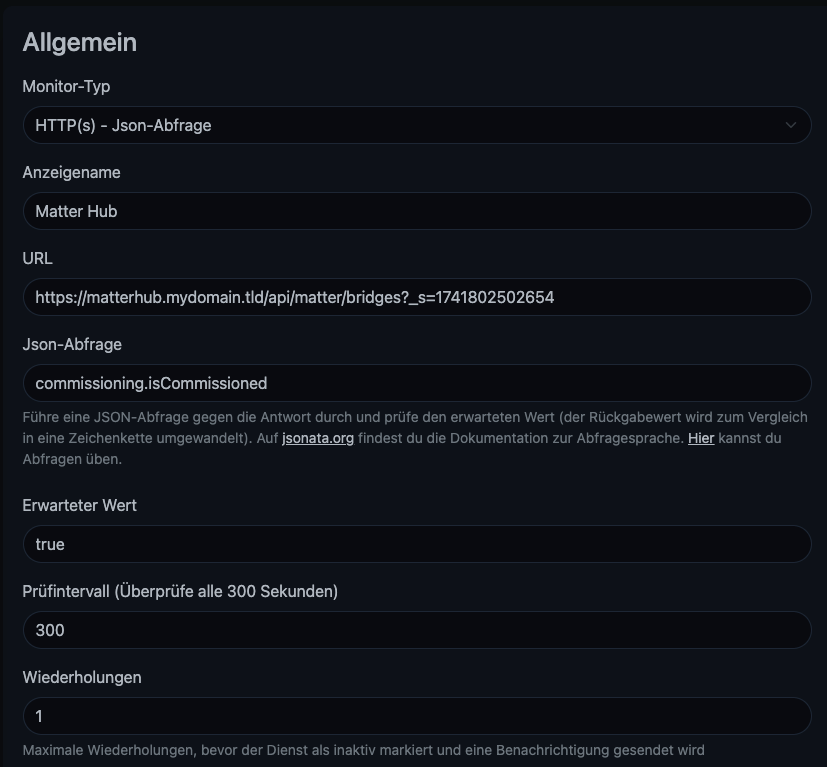
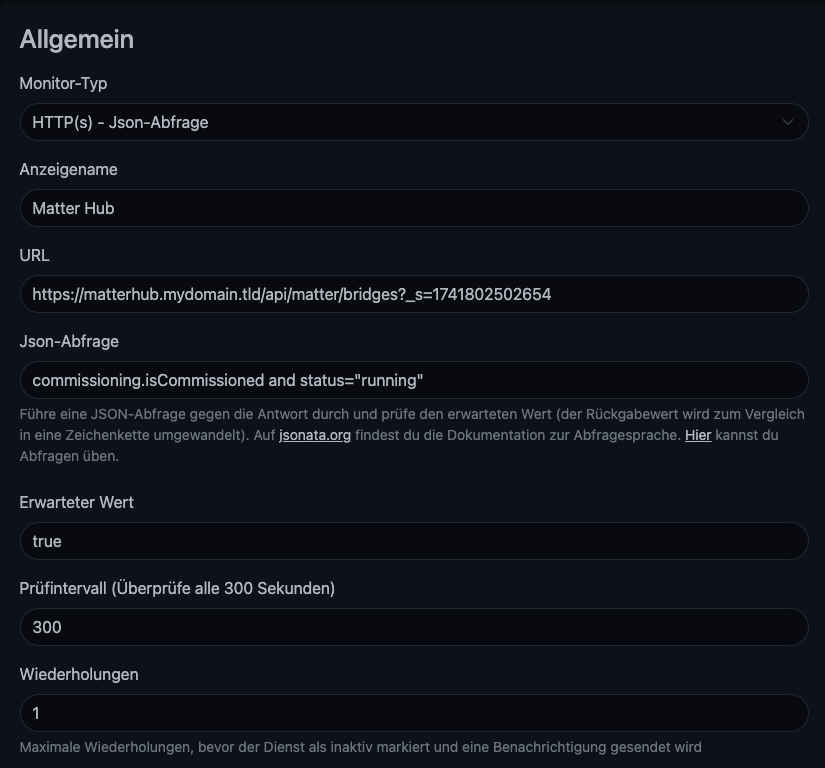
Added information about restarting the integration to detect new devices due to a known issue in the alpha release. Clarified monitoring instructions to include both `commissioned` and `running` statuses for accurate tracking.

diff --git a/README.md b/README.md
@@ -175,10 +175,12 @@ As a last step, it is necessary to add the bridge to the voice system (in my cas
 7. Afterwards, all the devices will show up in the App and can be controlled via voice without the usage of the Home Assistant Cloud. Also, the Web UI shows that the connection was successful:
 
    ![](assets/matterbridgeconnected.png)
+8. When adding new devices, I noticed that it is necessary to restart the integration in order for them to be picked up. This seems to be a bug in the current version (which is expected as this is an `alpha` release)
+
 
 #### Monitoring
 
-Since this integration is relatively new and still has some bugs, it sometimes requires a restart or some other kind of attention. To monitor if everything works as expected, I use [Uptime Kuma](https://github.com/louislam/uptime-kuma) which checks if the bridge is `commisioned`. This is done by crawling the API of the Matter Hub for the state of its bridge. I found the URL by taking using the developer tools and looking for the request to the URL starting by `/api/matter/bridges?_s=`. This request returns a JSON response containing the wanted information: `commissioning.isCommissioned`. This can be checked by Uptime Kuma:
+Since this integration is relatively new and still has some bugs, it sometimes requires a restart or some other kind of attention. To monitor if everything works as expected, I use [Uptime Kuma](https://github.com/louislam/uptime-kuma) which checks if the bridge is `running` and `comissioned`. This is done by crawling the API of the Matter Hub for the state of its bridge. I found the URL by taking using the developer tools and looking for the request to the URL starting by `/api/matter/bridges?_s=`. This request returns a JSON response containing the wanted information: `commissioning.isCommissioned and status="running"`. This can be checked by Uptime Kuma:
 
 ![](assets/matterhubinuptimekumaconfig.png)
 ![](assets/matterhubinuptimekumadisplay.png)
